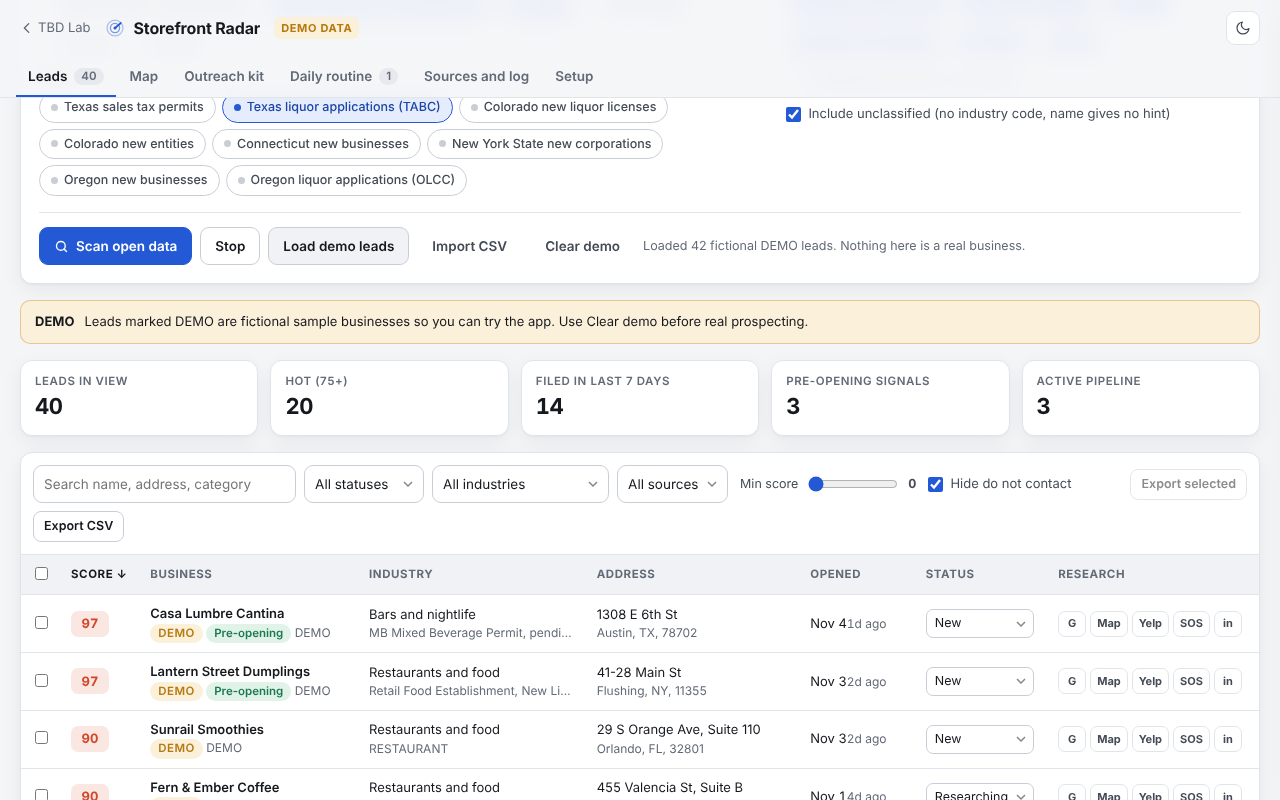
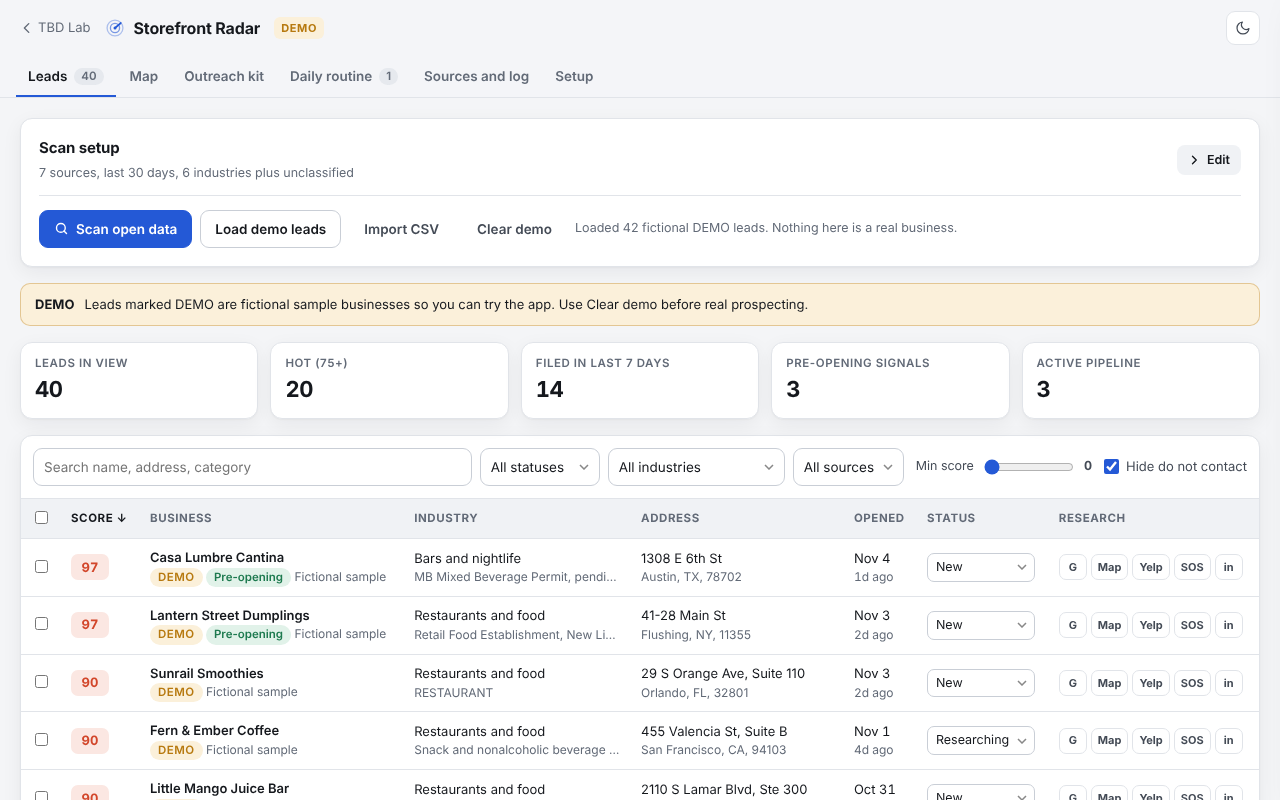
Add Storefront Radar: new-business lead finder for POS sales
Pulls new licenses, registrations, liquor applications and pre-license
inspections from 18 verified Socrata sources, scores leads for POS fit,
tracks a pipeline with follow-up sequences, drafts outreach, imports
CSV feeds (CA ABC, TX Comptroller, FL Sunbiz). Gallery links now point
at index.html so they work from disk too.

Claude-Session: https://claude.ai/code/session_01KhMuhXDZxdFxDozoVcGZPG

diff --git a/tools/radar/index.html b/tools/radar/index.html
@@ -99,6 +99,7 @@
   color-scheme: dark;
 }
 *, *::before, *::after { box-sizing: border-box; }
+[hidden] { display: none !important; }
 html { -webkit-text-size-adjust: 100%; }
 body { margin: 0; background: var(--bg); color: var(--ink); font-family: var(--sans); font-size: 14px; line-height: 1.5; -webkit-font-smoothing: antialiased; overflow-x: hidden; }
 a { color: var(--accent); }
@@ -117,7 +118,7 @@ button, input, select, textarea { font: inherit; color: inherit; }
 .brand { display: flex; align-items: center; gap: 9px; font-weight: 700; font-size: 16px; letter-spacing: -.01em; white-space: nowrap; }
 .brand svg { color: var(--accent); }
 .header-spacer { flex: 1; }
-.demo-flag { font-size: 11px; font-weight: 700; letter-spacing: .06em; color: var(--warm); background: var(--warm-soft); border-radius: 6px; padding: 3px 7px; }
+.demo-flag { white-space: nowrap; font-size: 11px; font-weight: 700; letter-spacing: .06em; color: var(--warm); background: var(--warm-soft); border-radius: 6px; padding: 3px 7px; }
 .icon-btn { width: 34px; height: 34px; border-radius: 9px; border: 1px solid var(--line); background: var(--surface); display: inline-grid; place-items: center; cursor: pointer; color: var(--ink-2); flex: 0 0 auto; }
 .icon-btn:hover { color: var(--ink); border-color: var(--line-strong); }
 .theme-dark-icon { display: none; }
@@ -134,7 +135,13 @@ button, input, select, textarea { font: inherit; color: inherit; }
 .tab[aria-selected="true"] { color: var(--ink); border-bottom-color: var(--accent); }
 .tab .count { font-size: 11.5px; font-weight: 600; color: var(--ink-3); background: var(--surface-3); border-radius: 999px; padding: 0 7px; }
 
-main { padding: 20px 0 80px; }
+main.wrap { padding-top: 20px; padding-bottom: 80px; }
+.scan-head { display: flex; align-items: center; gap: 10px; justify-content: space-between; }
+.scan-head .sum { font-size: 12.5px; color: var(--ink-3); min-width: 0; }
+.scan-card.collapsed .scan-grid { display: none; }
+.scan-card.collapsed .scan-actions { margin-top: 12px; }
+.scan-head .btn svg { transition: transform .15s; }
+.scan-card.collapsed .scan-head .btn svg { transform: rotate(-90deg); }
 .panel[hidden] { display: none !important; }
 .card { background: var(--surface); border: 1px solid var(--line); border-radius: var(--radius); box-shadow: var(--shadow); }
 .card-pad { padding: 18px; }
@@ -265,7 +272,7 @@ table.leads tbody tr.is-open td { background: var(--accent-soft); }
 .seq-row .when { font-size: 12px; color: var(--ink-3); }
 
 .map-wrap { position: relative; }
-.map-svg { width: 100%; height: auto; display: block; background: var(--surface-2); border-radius: 0 0 var(--radius) var(--radius); touch-action: manipulation; }
+.map-svg { width: 100%; height: auto; max-height: 66vh; display: block; background: var(--surface-2); border-radius: 0 0 var(--radius) var(--radius); touch-action: manipulation; }
 .map-svg .grid line { stroke: var(--line-strong); stroke-width: 1; stroke-dasharray: 2 4; }
 .map-svg .grid text { fill: var(--ink-3); font-size: 11px; font-family: var(--mono); }
 .map-svg circle.pt { stroke: var(--surface); stroke-width: 1.5; cursor: pointer; }
@@ -330,7 +337,7 @@ footer.foot { padding: 24px 0 40px; color: var(--ink-3); font-size: 12.5px; bord
 }
 @media (max-width: 760px) {
   .wrap { padding: 0 16px; }
-  main { padding-top: 14px; }
+  main.wrap { padding-top: 14px; }
   .grid-2, .grid-3 { grid-template-columns: 1fr; }
   .stats { grid-template-columns: repeat(2, minmax(0, 1fr)); gap: 8px; }
   .stat .v { font-size: 19px; }
@@ -361,7 +368,7 @@ footer.foot { padding: 24px 0 40px; color: var(--ink-3); font-size: 12.5px; bord
   .kv { grid-template-columns: 92px 1fr; }
   .funnel-row { grid-template-columns: 84px 1fr 32px; }
 }
-@media (min-width: 761px) { .d-sep { display: none; } .m-only { display: none; } }
+@media (min-width: 761px) { .d-sep { display: none; } .m-only { display: none; } .ago { display: block; } }
 </style>
 </head>
 <body>
@@ -376,7 +383,7 @@ footer.foot { padding: 24px 0 40px; color: var(--ink-3); font-size: 12.5px; bord
         <svg width="20" height="20" viewBox="0 0 24 24" aria-hidden="true"><circle cx="12" cy="12" r="9.5" fill="none" stroke="currentColor" stroke-width="1.6" opacity=".35"/><circle cx="12" cy="12" r="5.5" fill="none" stroke="currentColor" stroke-width="1.6" opacity=".6"/><path d="M12 12L19 6" stroke="currentColor" stroke-width="2" stroke-linecap="round"/><circle cx="12" cy="12" r="1.8" fill="currentColor"/></svg>
         <span>Storefront Radar</span>
       </div>
-      <span class="demo-flag" id="demoFlag" hidden>DEMO DATA</span>
+      <span class="demo-flag" id="demoFlag" hidden title="Fictional sample leads are loaded">DEMO</span>
       <div class="header-spacer"></div>
       <button class="icon-btn" id="themeBtn" type="button" aria-label="Toggle light or dark theme" title="Toggle theme">
         <svg class="theme-light-icon" width="16" height="16" viewBox="0 0 24 24" aria-hidden="true"><path d="M21 12.8A9 9 0 1 1 11.2 3a7 7 0 0 0 9.8 9.8z" fill="none" stroke="currentColor" stroke-width="1.8" stroke-linejoin="round"/></svg>
@@ -397,8 +404,9 @@ footer.foot { padding: 24px 0 40px; color: var(--ink-3); font-size: 12.5px; bord
 <main class="wrap">
   <!-- LEADS -->
   <section class="panel stack" id="panel-leads" role="tabpanel">
-    <div class="card card-pad">
-      <div class="scan-grid">
+    <div class="card card-pad scan-card" id="scanCard">
+      <div class="scan-head"><div style="min-width:0"><h2>Scan setup</h2><div class="sum" id="scanSum"></div></div><button class="btn ghost sm" type="button" id="scanToggle" aria-expanded="true" aria-controls="scanCard"><svg width="12" height="12" viewBox="0 0 16 16" aria-hidden="true"><path d="M3 6l5 5 5-5" fill="none" stroke="currentColor" stroke-width="1.8" stroke-linecap="round" stroke-linejoin="round"/></svg><span>Hide</span></button></div>
+      <div class="scan-grid" style="margin-top:12px">
         <div>
           <div class="scan-block">
             <div class="scan-label"><span>Sources</span>
@@ -445,9 +453,6 @@ footer.foot { padding: 24px 0 40px; color: var(--ink-3); font-size: 12.5px; bord
         <select class="select" id="fSource" aria-label="Filter by source"></select>
         <span class="range-wrap"><label for="fMin">Min score</label><input type="range" id="fMin" min="0" max="100" step="5" value="0"><b class="num" id="fMinVal">0</b></span>
         <label class="check"><input type="checkbox" id="fHideDnc" checked> Hide do not contact</label>
-        <div class="header-spacer"></div>
-        <button class="btn sm" type="button" id="exportSel" disabled>Export selected</button>
-        <button class="btn sm" type="button" id="exportAll">Export CSV</button>
       </div>
       <div class="table-wrap" id="tableWrap">
         <table class="leads" id="leadsTable">
@@ -465,7 +470,7 @@ footer.foot { padding: 24px 0 40px; color: var(--ink-3); font-size: 12.5px; bord
         </table>
         <div class="empty" id="emptyState" hidden></div>
       </div>
-      <div class="table-foot"><span id="footInfo"></span><button class="btn sm" type="button" id="moreBtn" hidden>Show more</button></div>
+      <div class="table-foot"><span id="footInfo"></span><span class="btn-row"><button class="btn sm" type="button" id="moreBtn" hidden>Show more</button><button class="btn sm" type="button" id="exportSel" disabled>Export selected</button><button class="btn sm" type="button" id="exportAll">Export CSV</button></span></div>
     </div>
   </section>
 
@@ -1312,6 +1317,7 @@ function loadDemo() {
   seed.forEach(([name, status, notes]) => { const l = S.leads.find((x) => x.demo && x.name === name); if (l && !S.state[l.id]) setLeadState(l, { status, notes, seq: status === "Contacted" ? { start: addDays(t, -3), done: [true, false, false, false] } : undefined }); });
   saveSoon();
   S.ui.page = 1;
+  if (window.innerWidth < 761 && storeGet("radar.v1.scanCollapsed", null) === null) $("#scanCard").classList.add("collapsed");
   $("#scanMsg").textContent = "Loaded " + demos.length + " fictional DEMO leads. Nothing here is a real business.";
   renderAll();
 }
@@ -1385,10 +1391,10 @@ function renderTable() {
     return '<tr data-id="' + esc(l.id) + '" class="' + (st.dnc ? "is-dnc " : "") + (S.ui.openId === l.id ? "is-open" : "") + '">' +
       '<td class="c-sel"><input type="checkbox" class="rowsel" aria-label="Select ' + esc(l.name) + '"' + (sel.has(l.id) ? " checked" : "") + "></td>" +
       '<td class="c-score"><span class="score ' + band(l.score) + '" title="Lead score">' + l.score + "</span></td>" +
-      '<td class="c-biz"><div class="biz-name">' + esc(l.name) + "</div>" + '<div class="biz-sub">' + badges + esc((l.sources || []).join(", ")) + (l.legal ? " · " + esc(l.legal) : "") + "</div></td>" +
+      '<td class="c-biz"><div class="biz-name">' + esc(l.name) + "</div>" + '<div class="biz-sub">' + badges + (l.demo ? "Fictional sample" : esc((l.sources || []).join(", "))) + (l.legal ? " · " + esc(l.legal) : "") + "</div></td>" +
       '<td class="c-cat cell-cat"><div class="clip" title="' + esc(l.category) + '">' + esc(presetOf(l.cls).label) + '</div><div class="biz-sub clip">' + esc(l.category || "No category on file") + "</div></td>" +
       '<td class="c-addr cell-addr"><div class="clip">' + esc(l.address || "No address") + '</div><div class="biz-sub clip">' + esc([l.city, l.state, l.zip].filter(Boolean).join(", ")) + "</div></td>" +
-      '<td class="c-date num">' + '<span class="m-only muted">Filed </span>' + esc(fmtDate(l.date, { month: "short", day: "numeric" }) || "Unknown") + '<span class="d-sep"> · </span><div class="biz-sub" style="display:inline-block">' + esc(ago) + "</div></td>" +
+      '<td class="c-date num">' + '<span class="m-only muted">Filed </span>' + esc(fmtDate(l.date, { month: "short", day: "numeric" }) || "Unknown") + '<span class="d-sep"> · </span><span class="biz-sub ago">' + esc(ago) + "</span></td>" +
       '<td class="c-status"><select class="select status-sel" aria-label="Status for ' + esc(l.name) + '">' + STATUSES.map((s) => "<option" + (s === st.status ? " selected" : "") + ">" + s + "</option>").join("") + "</select></td>" +
       '<td class="c-links"><span class="links">' +
         '<a class="lnk" target="_blank" rel="noopener" href="' + esc(links.google) + '" title="Google search">G</a>' +
@@ -1437,10 +1443,18 @@ function renderSourceChips() {
     return '<button type="button" class="chip" data-src="' + esc(s.id) + '" aria-pressed="' + sel.has(s.id) + '" title="' + esc((s.title || "") + " on " + s.domain + (st && st.msg ? ". " + st.msg : "")) + '"><span class="dot"></span>' + esc(s.label) + badge + "</button>";
   }).join("") + "</div>").join("");
 }
+function renderScanSummary() {
+  const n = S.settings.selected.filter((id) => srcById(id)).length;
+  $("#scanSum").textContent = n + " source" + (n === 1 ? "" : "s") + ", last " + S.settings.windowDays + " days, " + S.settings.presets.length + " industr" + (S.settings.presets.length === 1 ? "y" : "ies") + (S.settings.includeUnknown ? " plus unclassified" : "");
+  const collapsed = $("#scanCard").classList.contains("collapsed");
+  $("#scanToggle span").textContent = collapsed ? "Edit" : "Hide";
+  $("#scanToggle").setAttribute("aria-expanded", String(!collapsed));
+}
 function renderScanControls() {
   $("#windowChips").innerHTML = WINDOWS.map((d) => '<button type="button" class="chip" data-win="' + d + '" aria-pressed="' + (S.settings.windowDays === d) + '">' + d + " days</button>").join("");
   $("#presetChips").innerHTML = PRESETS.map((p) => '<button type="button" class="chip" data-preset="' + p.key + '" aria-pressed="' + S.settings.presets.includes(p.key) + '"><span class="dot"></span>' + esc(p.label) + (p.on ? "" : ' <span class="st">off by default</span>') + "</button>").join("");
   $("#includeUnknown").checked = !!S.settings.includeUnknown;
+  renderScanSummary();
 }
 
 /* ---------- Drawer ---------- */
@@ -1477,7 +1491,7 @@ function renderDrawer() {
   const links = linkSet(l);
   $("#dBadges").innerHTML = '<span class="score ' + band(l.score) + '">' + l.score + "</span>" + (l.demo ? '<span class="pill demo">DEMO</span>' : "") + '<span class="pill">' + esc(presetOf(l.cls).label) + "</span>" + (l.preopen ? '<span class="pill pre">Pre-opening</span>' : "") + (st.dnc ? '<span class="pill dnc">Do not contact</span>' : "");
   $("#dTitle").textContent = l.name;
-  $("#dSub").textContent = [l.legal, (l.sources || []).join(", ")].filter(Boolean).join(" · ");
+  $("#dSub").textContent = [l.legal, l.demo ? "Fictional sample lead" : (l.sources || []).join(", ")].filter(Boolean).join(" · ");
   const tplKey = S.ui.drawerTpl || "walkin";
   const kv = [["Address", [l.address, [l.city, l.state, l.zip].filter(Boolean).join(", ")].filter(Boolean).join(", ") || "Not on file"], ["Filed", l.date ? fmtDate(l.date) + " (" + (daysBetween(l.date, todayISO()) >= 0 ? daysBetween(l.date, todayISO()) + " days ago" : "future date") + ")" : "Unknown"], ["Category", l.category || "Not on file"]];
   if (l.firstSales) kv.push(["First sales", fmtDate(l.firstSales)]);
@@ -1802,10 +1816,11 @@ function init() {
     const b = e.target.closest("[data-src]"); if (!b) return;
     const id = b.dataset.src, set = new Set(S.settings.selected);
     set.has(id) ? set.delete(id) : set.add(id);
-    S.settings.selected = Array.from(set); saveSoon(); renderSourceChips();
+    S.settings.selected = Array.from(set); saveSoon(); renderSourceChips(); renderScanSummary();
   });
-  $("#srcAll").addEventListener("click", () => { S.settings.selected = allSources().map((s) => s.id); saveSoon(); renderSourceChips(); });
-  $("#srcNone").addEventListener("click", () => { S.settings.selected = []; saveSoon(); renderSourceChips(); });
+  $("#scanToggle").addEventListener("click", () => { $("#scanCard").classList.toggle("collapsed"); storeSet("radar.v1.scanCollapsed", $("#scanCard").classList.contains("collapsed")); renderScanSummary(); });
+  $("#srcAll").addEventListener("click", () => { S.settings.selected = allSources().map((s) => s.id); saveSoon(); renderSourceChips(); renderScanSummary(); });
+  $("#srcNone").addEventListener("click", () => { S.settings.selected = []; saveSoon(); renderSourceChips(); renderScanSummary(); });
   $("#windowChips").addEventListener("click", (e) => { const b = e.target.closest("[data-win]"); if (!b) return; S.settings.windowDays = Number(b.dataset.win); saveSoon(); renderScanControls(); });
   $("#presetChips").addEventListener("click", (e) => {
     const b = e.target.closest("[data-preset]"); if (!b) return;
@@ -1908,6 +1923,8 @@ function init() {
     $("#customMsg").textContent = r.errors.length ? r.errors.join(". ") : r.sources.length ? "Saved " + r.sources.length + " custom source" + (r.sources.length === 1 ? "" : "s") + ". They appear under Custom in the Leads tab." : "Cleared custom sources.";
     renderSourceChips(); renderSources();
   });
+  const pref = storeGet("radar.v1.scanCollapsed", null);
+  if (pref === true || (pref === null && S.leads.length && window.innerWidth < 761)) $("#scanCard").classList.add("collapsed");
   renderAll();
   const tab = storeGet("radar.v1.tab", "leads");
   if (tab && $("#panel-" + tab)) showTab(tab);

diff --git a/index.html b/index.html
@@ -153,7 +153,7 @@
     <p>Tools sharp enough to sell</p>
   </div>
   <div class="grid">
-    <a class="card" href="tools/ratecard/">
+    <a class="card" href="tools/ratecard/index.html">
       <div class="thumb" style="--g: linear-gradient(135deg,#1f8a4c,#0f3d2a)">
         <img src="tools/ratecard/screenshots/desktop-floor.png" alt="" loading="lazy" onerror="this.remove()">
         <div class="glyph">$/hr</div>
@@ -165,7 +165,7 @@
         <p class="why"><b>Why:</b> most independents underprice because they start from cost. This flips the frame to value. Gumroad listing included.</p>
       </div>
     </a>
-    <a class="card" href="tools/venture/">
+    <a class="card" href="tools/venture/index.html">
       <div class="thumb" style="--g: linear-gradient(135deg,#2b6cd9,#122c5c)">
         <img src="tools/venture/screenshots/desktop-scorecard.png" alt="" loading="lazy" onerror="this.remove()">
         <div class="glyph">GO?</div>
@@ -177,7 +177,7 @@
         <p class="why"><b>Why:</b> the cheapest time to kill a bad idea is before you build it.</p>
       </div>
     </a>
-    <a class="card" href="tools/radar/">
+    <a class="card" href="tools/radar/index.html">
       <div class="thumb" style="--g: linear-gradient(135deg,#e0a21b,#5a3a05)">
         <img src="tools/radar/screenshots/desktop.png" alt="" loading="lazy" onerror="this.remove()">
         <div class="glyph">&#9678;</div>
@@ -196,7 +196,7 @@
     <p>Because not everything needs an ROI</p>
   </div>
   <div class="grid">
-    <a class="card" href="games/slingshot/">
+    <a class="card" href="games/slingshot/index.html">
       <div class="thumb" style="--g: radial-gradient(circle at 30% 40%,#5b3bd6,#0a0820 70%)">
         <img src="games/slingshot/screenshots/desktop-play.png" alt="" loading="lazy" onerror="this.remove()">
         <div class="glyph">&#9737;</div>
@@ -208,7 +208,7 @@
         <p class="why"><b>Why:</b> orbital mechanics is the most satisfying physics there is.</p>
       </div>
     </a>
-    <a class="card" href="games/groovebox/">
+    <a class="card" href="games/groovebox/index.html">
       <div class="thumb" style="--g: linear-gradient(135deg,#ff3d7f,#2a0a3a)">
         <img src="games/groovebox/screenshots/desktop.png" alt="" loading="lazy" onerror="this.remove()">
         <div class="glyph">&#9835;</div>
@@ -227,7 +227,7 @@
     <p>Generative, and a little personal</p>
   </div>
   <div class="grid">
-    <a class="card" href="art/cartographer/">
+    <a class="card" href="art/cartographer/index.html">
       <div class="thumb" style="--g: linear-gradient(135deg,#c9a66b,#6b4a22)">
         <img src="art/cartographer/screenshots/parchment.png" alt="" loading="lazy" onerror="this.remove()">
         <div class="glyph">N&#8593;</div>
@@ -239,7 +239,7 @@
         <p class="why"><b>Why:</b> every seed is a world nobody has seen before.</p>
       </div>
     </a>
-    <a class="card" href="art/latent/">
+    <a class="card" href="art/latent/index.html">
       <div class="thumb" style="--g: radial-gradient(circle at 50% 50%,#d9542b,#1a0b2e 70%)">
         <img src="art/latent/screenshots/desktop-arrival.png" alt="" loading="lazy" onerror="this.remove()">
         <div class="glyph">&#8734;</div>

diff --git a/tools/radar/SOURCES.md b/tools/radar/SOURCES.md
@@ -1,0 +1,94 @@
+# Storefront Radar: data sources
+
+Storefront Radar queries each portal straight from your browser through the Socrata SODA API (`https://<domain>/resource/<dataset>.json`). Socrata sends CORS headers, so no server or API key is needed. An optional Socrata app token (Setup tab) raises rate limits.
+
+## How these were verified
+
+The sandbox used to build this app could not reach the portals directly. Each source below was checked against live API responses and working field maps that other projects captured from the real endpoints between April and October 2026: sample rows, column lists, freshness probes and SoQL filters. Every field name in the config is one that a real response returned. Socrata schemas do drift, though. San Francisco dropped three NAICS columns in July 2026 with no notice. If a source starts failing with `400 no-such-column`, check `https://<domain>/api/views/<dataset>/columns.json` and update the field names.
+
+## Verified sources (in the app)
+
+| Source | Portal | Dataset ID | What it contains | Freshness | Caveats |
+|---|---|---|---|---|---|
+| San Francisco | [data.sf.gov](https://data.sf.gov/d/g8m3-pdis) | `g8m3-pdis` | Registered Business Locations: every business tax registration, with trade name, owner, address, start dates and a point location | Daily | The host moved from `data.sfgov.org` to `data.sf.gov` on Sept 1, 2026, and the legacy redirects end Dec 31, 2026. The `naic_code` columns were removed in July 2026. Only `self_reported_naics_code` remains, and about 96% of new openings have none, so most SF leads are classified by name. |
+| Chicago, business licenses | [data.cityofchicago.org](https://data.cityofchicago.org/d/r5kz-chrr) | `r5kz-chrr` | Business licenses with DBA, legal name, address, business activity, license type, lat/lon | Daily | One license can have several rows (one per activity), and dedupe merges them. Filtered to `application_type = 'ISSUE'` so renewals are excluded. |
+| Chicago, pre-license food inspections | [data.cityofchicago.org](https://data.cityofchicago.org/d/4ijn-s7e5) | `4ijn-s7e5` | Food Inspections filtered to `inspection_type like 'License%'`. These health inspections happen before a food license is issued, so they are an early opening signal. | Daily | Includes schools, daycares and hospitals (`facility_type`), which are scored as professional services. A "Fail" result usually means a re-inspection is coming soon. |
+| Los Angeles | [data.lacity.org](https://data.lacity.org/d/6rrh-rzua) | `6rrh-rzua` | Listing of Active Businesses: business name, DBA, address, NAICS and description, location start date, point location | Monthly, around the 15th | This is a snapshot of active businesses, not a feed of new ones. Use a 60 or 90 day window. Some rows have future dates, which the app's upper date bound drops. There is no state column, so CA is filled in. |
+| New York City, issued licenses | [data.cityofnewyork.us](https://data.cityofnewyork.us/d/w7w3-xahh) | `w7w3-xahh` | DCWP Issued Licenses: business and trade name, category, split address, phone, lat/lon | About daily | DCWP licenses cover specific trades (tobacco retail, sidewalk cafes, electronics stores, laundries, pawnbrokers, home improvement), not restaurants in general. |
+| New York City, new applications | [data.cityofnewyork.us](https://data.cityofnewyork.us/d/ptev-4hud) | `ptev-4hud` | DCWP License Applications: submission date, status, category, address, lat/lon | Weekly | Filtered to `application_type like 'New%'`. These are pre-license, so they get the pre-opening boost. |
+| Seattle | [cos-data.seattle.gov](https://cos-data.seattle.gov/d/wnbq-64tb) | `wnbq-64tb` | Active Business License Tax Certificates: legal and trade name, NAICS code and description, address, phone | Daily | `license_start_date` is text in `YYYYMMDD` form (`dateFormat: "yyyymmdd"` in the config). `data.seattle.gov` is an alias of the canonical `cos-data.seattle.gov`. No coordinates. |
+| New Orleans | [data.nola.gov](https://data.nola.gov/d/hjcd-grvu) | `hjcd-grvu` | Occupational Business Licenses: business name, owner, business type, address, start date, lat/lon | Frequent (live and current in an Aug 2026 probe) | About 24% of rows have zero or missing coordinates, and about 18% are outside Orleans Parish. A few start dates are in the future. |
+| Orlando | [data.cityoforlando.net](https://data.cityoforlando.net/d/7388-4re5) | `7388-4re5` | Business Tax Receipts: business and owner name, license type, combined address, received date, phone, email | Daily | Uses `received_date`, the application date, which comes before opening. Recent rows have no usable coordinates (`gpsx`/`gpsy` are Florida State Plane, not lat/lon). This is the only source with both a phone and an email. |
+| Norfolk, VA | [data.norfolk.gov](https://data.norfolk.gov/d/dpi6-sct5) | `dpi6-sct5` | Business Licenses: trading-as name, owner, NAICS, address with ZIP, opened date, lat/lon | Daily | About 25% of rows are placeholder "NO NORFOLK ADDRESS REQUIRED" records for special events, and a base filter drops them. |
+| Texas sales tax permits | [data.texas.gov](https://data.texas.gov/d/jrea-zgmq) | `jrea-zgmq` | Active Sales Tax Permit Holders: taxpayer and outlet name, outlet address, NAICS, permit issue date, first sales date | Weekly, loaded Saturdays | Statewide and large, so the base filter keeps only POS-relevant NAICS ranges (retail, food service, bakeries, personal care, fitness, auto repair). `outlet_naics_code` is numeric, so the filter uses `between`. A first sales date that is still in the future is scored as pre-opening. |
+| Texas liquor applications (TABC) | [data.texas.gov](https://data.texas.gov/d/mxm5-tdpj) | `mxm5-tdpj` | TABC pending original license applications: trade name, owner, license type code, address, city, ZIP, submission date | Daily | Pending liquor applications are among the earliest signals for bars and restaurants. ZIPs are ZIP+4 and get trimmed. License types are codes (MB, BG, BQ), so leads default to Bars and nightlife. |
+| Colorado new liquor licenses | [data.colorado.gov](https://data.colorado.gov/d/htyp-tqzh) | `htyp-tqzh` | Recently Approved Liquor Licenses: licensee, DBA, license type, address, issue date, point location | Rolling list of recent approvals | About 98 rows have junk issue dates far in the future (2048 to 2262), and the app's upper date bound excludes them. |
+| Colorado new entities | [data.colorado.gov](https://data.colorado.gov/d/4ykn-tg5h) | `4ykn-tg5h` | Business Entities in Colorado (Secretary of State): entity name, principal address, formation date, entity type | Daily, 1 to 3 day lag | No industry field, so classification relies on the name. Nonprofits (`DNC`, `FNC`) and out-of-state principal addresses are filtered out. The principal address is often a home or an agent's address. |
+| Connecticut new businesses | [data.ct.gov](https://data.ct.gov/d/n7gp-d28j) | `n7gp-d28j` | Business Registry, Business Master: name, type, billing address, NAICS as "Description (code)", registration date, business email | Daily, 1 to 3 day lag | Non-stock (nonprofit) entities are excluded. The email comes from the registration form, so treat it as a business contact and follow CAN-SPAM. |
+| New York State new corporations | [data.ny.gov](https://data.ny.gov/d/n9v6-gdp6) | `n9v6-gdp6` | Active Corporations: Beginning 1800 (Department of State): entity name, location address, initial filing date, entity type, county | Daily, 1 to 3 day lag | No industry field. Not-for-profits are excluded. Statewide volume is high, so lower the per-source cap or use a short window. |
+| Oregon new businesses | [data.oregon.gov](https://data.oregon.gov/d/tckn-sxa6) | `tckn-sxa6` | Active Businesses, ALL (Secretary of State): business name, entity type, registry date, address | Daily, about 1 day lag | The dataset has one row per associated name or address, so it is filtered to `associated_name_type = 'PRINCIPAL PLACE OF BUSINESS'`. Assumed business names (sole-trader DBAs) are kept because they are often small shops. |
+| Oregon liquor applications (OLCC) | [data.oregon.gov](https://data.oregon.gov/d/qad4-bnxp) | `qad4-bnxp` | OLCC Liquor License Applications Received: trade name, license type, address, date received, application status | Live in an Aug 2026 probe | Field names come from a live-verified field map (Aug 2026), but no independent sample confirmed that `date_received` is a true date column. If the source errors, see the troubleshooting note above. There is no city column. |
+
+## Manual import feeds (CSV)
+
+These are some of the best early signals, but browsers cannot fetch them directly: they are not Socrata, they have no CORS, or they are file downloads. Download the file, then use **Sources and log > Manual import (CSV)**. The importer guesses the column mapping and lets you fix it. Imported leads are scored the same way as scanned leads, and later scans do not remove them.
+
+| Feed | Where | Tips |
+|---|---|---|
+| California ABC new license applications | https://www.abc.ca.gov/licensing/licensing-reports/new-applications/ | Updated daily. Set record type to "Application" and default state to CA. License types 41 (beer and wine eating place) and 47 (general eating place) are restaurants, and 48 is bars. |
+| Texas Comptroller recent sales tax permits | https://comptroller.texas.gov/transparency/open-data/recent-sales-tax-permits | Weekly file of newly issued permits. Set record type to "Sales tax permit". Map the outlet name to Business name and the NAICS column to Industry. |
+| Florida Sunbiz daily filings | https://dos.fl.gov/sunbiz/other-services/data-downloads/daily-data/ | Daily corporate filings. The files are fixed-width text, so open one in a spreadsheet, split the columns, and save as CSV first. Set record type to "State entity filing" and state to FL. |
+
+Any spreadsheet with a header row works: comma, tab, semicolon or pipe separated. Dates can be `YYYY-MM-DD`, `YYYYMMDD` or `MM/DD/YYYY`.
+
+## Checked but not included
+
+| Candidate | Why it is not in the app |
+|---|---|
+| Cincinnati `ehdi-ajku` (data.cincinnati-oh.gov), Licenses and Use Permits | Live and geocoded (`entered_date`, `latitude`, `longitude`, `full_address`), but the business name and type columns could not be confirmed. Good to add once you check `columns.json`. |
+| Chicago building permits `ydr8-5enu` | An early build-out signal, but there is no business name field (only work description and address). |
+| Missouri new liquor licenses `dymb-xy5c` (data.mo.gov) | Fields are verified, but `original_date` is `MM/DD/YYYY` text, so SoQL cannot filter it by date. Download it as CSV and import it instead. |
+| WA LCB local authority letters `vgcw-qfjm` | Held 0 rows on Sept 30, 2026. |
+| Baton Rouge `xw6s-bcqm` | Has NAICS and geometry but no open-date column. |
+| Kansas City `data.kcmo.org` | The license dataset was about 7 months stale in Aug 2026. |
+| Austin | No business license dataset. Austin's catalog moved to the Texas portal, which is covered by the Texas sources above. |
+| Iowa, Baltimore, Dallas | Not verified during this build. Add them with the guide below once you confirm field names. |
+
+## How to add a new city
+
+1. **Find the dataset.** Search `"<city> open data business license"` or use the Socrata catalog: `https://api.us.socrata.com/api/catalog/v1?q=business%20license&domains=<domain>`. You want a dataset with a date that marks a new business (issue, start, registration, received or application date), not just an expiry date.
+2. **Read one real row.** Open `https://<domain>/resource/<dataset>.json?$limit=1` in your browser. The keys in that JSON are the API field names. The column list is at `https://<domain>/api/views/<dataset>/columns.json`.
+3. **Check the date column.** Open `https://<domain>/resource/<dataset>.json?$order=<date_field> DESC&$limit=5`. If the dates look like `2026-11-03T00:00:00.000`, you are set. If they look like `20261103`, add `"dateFormat": "yyyymmdd"`. If they look like `11/03/2026`, the column is text that cannot be range-filtered, so use the CSV importer instead.
+4. **Add an entry.** Either paste JSON into **Setup > Custom sources** (no code edits), or add an object to the `SOURCES` array at the top of the script in `index.html`:
+
+```json
+{
+  "id": "mycity",
+  "label": "My City",
+  "group": "City",
+  "state": "XX",
+  "domain": "data.mycity.gov",
+  "dataset": "abcd-1234",
+  "kind": "license",
+  "dateField": "issue_date",
+  "nameField": "legal_name",
+  "dbaField": "dba_name",
+  "addressField": "address",
+  "cityField": "city",
+  "zipField": "zip",
+  "categoryFields": ["license_type", "naics_code"],
+  "latField": "latitude",
+  "lonField": "longitude",
+  "baseWhere": "status = 'Active'"
+}
+```
+
+Field reference:
+
+- `kind`: `license`, `registration`, `application`, `inspection`, `permit`, `tax`, or `entity`. Applications, pre-license inspections and build-out permits get the pre-opening boost. State entity filings lose a few storefront points, because their address is often a home or a registered agent.
+- `addressField` can be an array, such as `["address_building", "address_street_name"]`, when the street is split across columns.
+- Use `locationField` instead of `latField`/`lonField` when coordinates come as a Socrata point (`{"type":"Point","coordinates":[lon,lat]}`).
+- `defaultCity`, `phoneField`, `emailField`, `statusField`, `firstSalesField` and `defaultClass` (for example `"bars"` for a liquor feed) are optional.
+- `baseWhere` is any SoQL condition, and the app ANDs it with the date window. Use it to drop renewals, nonprofits or placeholder rows.
+
+5. **Scan and check the log.** Every request appears in **Sources and log** with its full SoQL URL. A 400 error usually means a field name is wrong. A 0-row result with a 200 usually means the date window is too short, or the dataset updates monthly.
